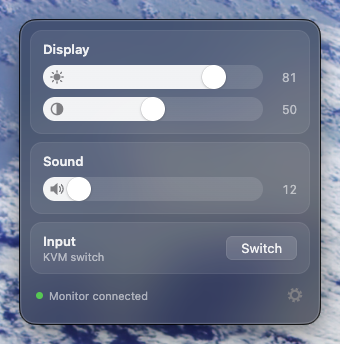
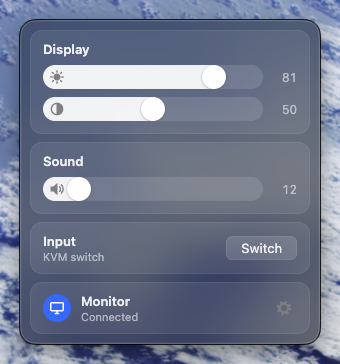
Fix empty popup in packaged builds, native monitor status module
- Re-enable the GrantFileProtocolExtraPrivileges fuse: with it disabled
  file:// cannot read index.html from app.asar and the popup is blank
- Monitor status is now a Control Center style module: accent circle
  with a monitor glyph when connected, gray when not, gear on the right
- Popup height follows the new layout; retake popup screenshots

diff --git a/styles.css b/styles.css
@@ -14,8 +14,6 @@
     --button-bg: #ffffff;
     --button-border: rgba(0, 0, 0, 0.12);
     --fallback-bg: #ececec;
-    --status-on: #34c759;
-    --status-off: rgba(0, 0, 0, 0.25);
 }
 
 @media (prefers-color-scheme: dark) {
@@ -32,8 +30,6 @@
         --button-bg: rgba(255, 255, 255, 0.14);
         --button-border: rgba(255, 255, 255, 0.08);
         --fallback-bg: #2b2b2b;
-        --status-on: #30d158;
-        --status-off: rgba(255, 255, 255, 0.3);
     }
 }
 
@@ -181,30 +177,34 @@ body {
     outline-offset: 0;
 }
 
-.footer {
+/* Control Center style toggle: accent circle when the monitor is connected, gray otherwise */
+.status-main {
     display: flex;
     align-items: center;
-    justify-content: space-between;
-    padding: 0 2px 0 6px;
+    gap: 10px;
 }
 
-.status {
+.status-icon {
     display: flex;
     align-items: center;
-    gap: 6px;
-    font-size: 11px;
-    color: var(--text-secondary);
-}
-
-.status-dot {
-    width: 7px;
-    height: 7px;
+    justify-content: center;
+    width: 28px;
+    height: 28px;
     border-radius: 50%;
-    background: var(--status-off);
+    background: var(--track);
+    color: var(--icon);
+    transition: background 0.2s ease, color 0.2s ease;
 }
 
-.status.connected .status-dot {
-    background: var(--status-on);
+.status-icon svg {
+    width: 16px;
+    height: 16px;
+    stroke: currentColor;
+}
+
+#status.connected .status-icon {
+    background: AccentColor;
+    color: #ffffff;
 }
 
 .icon-button {
@@ -237,4 +237,8 @@ body {
 
 .icon-button:focus-visible {
     outline: 2px solid color-mix(in srgb, AccentColor 45%, transparent);
+}
+
+#status {
+    margin-bottom: 0;
 }

diff --git a/index.html b/index.html
@@ -60,18 +60,26 @@
     <button class="push-button" id="kvm-switch">Switch</button>
 </section>
 
-<footer class="footer">
-    <span class="status" id="status" role="status">
-        <span class="status-dot" aria-hidden="true"></span>
-        <span id="status-text">Looking for monitor…</span>
-    </span>
+<section class="module module-row" id="status">
+    <div class="status-main">
+        <span class="status-icon" aria-hidden="true">
+            <svg viewBox="0 0 16 16">
+                <rect x="1.75" y="2.75" width="12.5" height="8" rx="1.25" fill="none" stroke-width="1.5"/>
+                <path d="M6 13.5h4M8 11v2.5" fill="none" stroke-width="1.5" stroke-linecap="round"/>
+            </svg>
+        </span>
+        <div>
+            <div class="module-title">Monitor</div>
+            <div class="module-subtitle" id="status-text" role="status">Searching…</div>
+        </div>
+    </div>
     <button class="icon-button" id="open-settings" aria-label="Settings" title="Settings">
         <svg viewBox="0 0 16 16" aria-hidden="true">
             <circle cx="8" cy="8" r="6.2" fill="none" stroke-width="2.2" stroke-dasharray="2.43 2.44"/>
             <circle cx="8" cy="8" r="4.2" fill="none" stroke-width="2.2"/>
         </svg>
     </button>
-</footer>
+</section>
 
 <script src="popup.js"></script>
 

diff --git a/forge.config.js b/forge.config.js
@@ -80,8 +80,7 @@ module.exports = {
             [FuseV1Options.EnableNodeCliInspectArguments]: false,
             [FuseV1Options.EnableEmbeddedAsarIntegrityValidation]: true,
             [FuseV1Options.OnlyLoadAppFromAsar]: true,
-            // The UI is loaded with loadFile and needs no extra file:// privileges
-            [FuseV1Options.GrantFileProtocolExtraPrivileges]: false,
+            // GrantFileProtocolExtraPrivileges stays enabled: without it file:// cannot read the UI from app.asar
         }),
     ],
 };

diff --git a/popup.js b/popup.js
@@ -61,7 +61,7 @@ const statusText = document.getElementById('status-text');
 
 function renderStatus(connected) {
     status.classList.toggle('connected', connected);
-    statusText.textContent = connected ? 'Monitor connected' : 'Monitor not found';
+    statusText.textContent = connected ? 'Connected' : 'Not connected';
 }
 
 on('init-values', data => {

diff --git a/main.js b/main.js
@@ -344,7 +344,7 @@ const contextMenu = Menu.buildFromTemplate([
 const mb = menubar({
     browserWindow: {
         width: 300,
-        height: 304,
+        height: 324,
         resizable: false,
         // Native translucent popover background on macOS, follows the system theme
         ...(isMac && {
